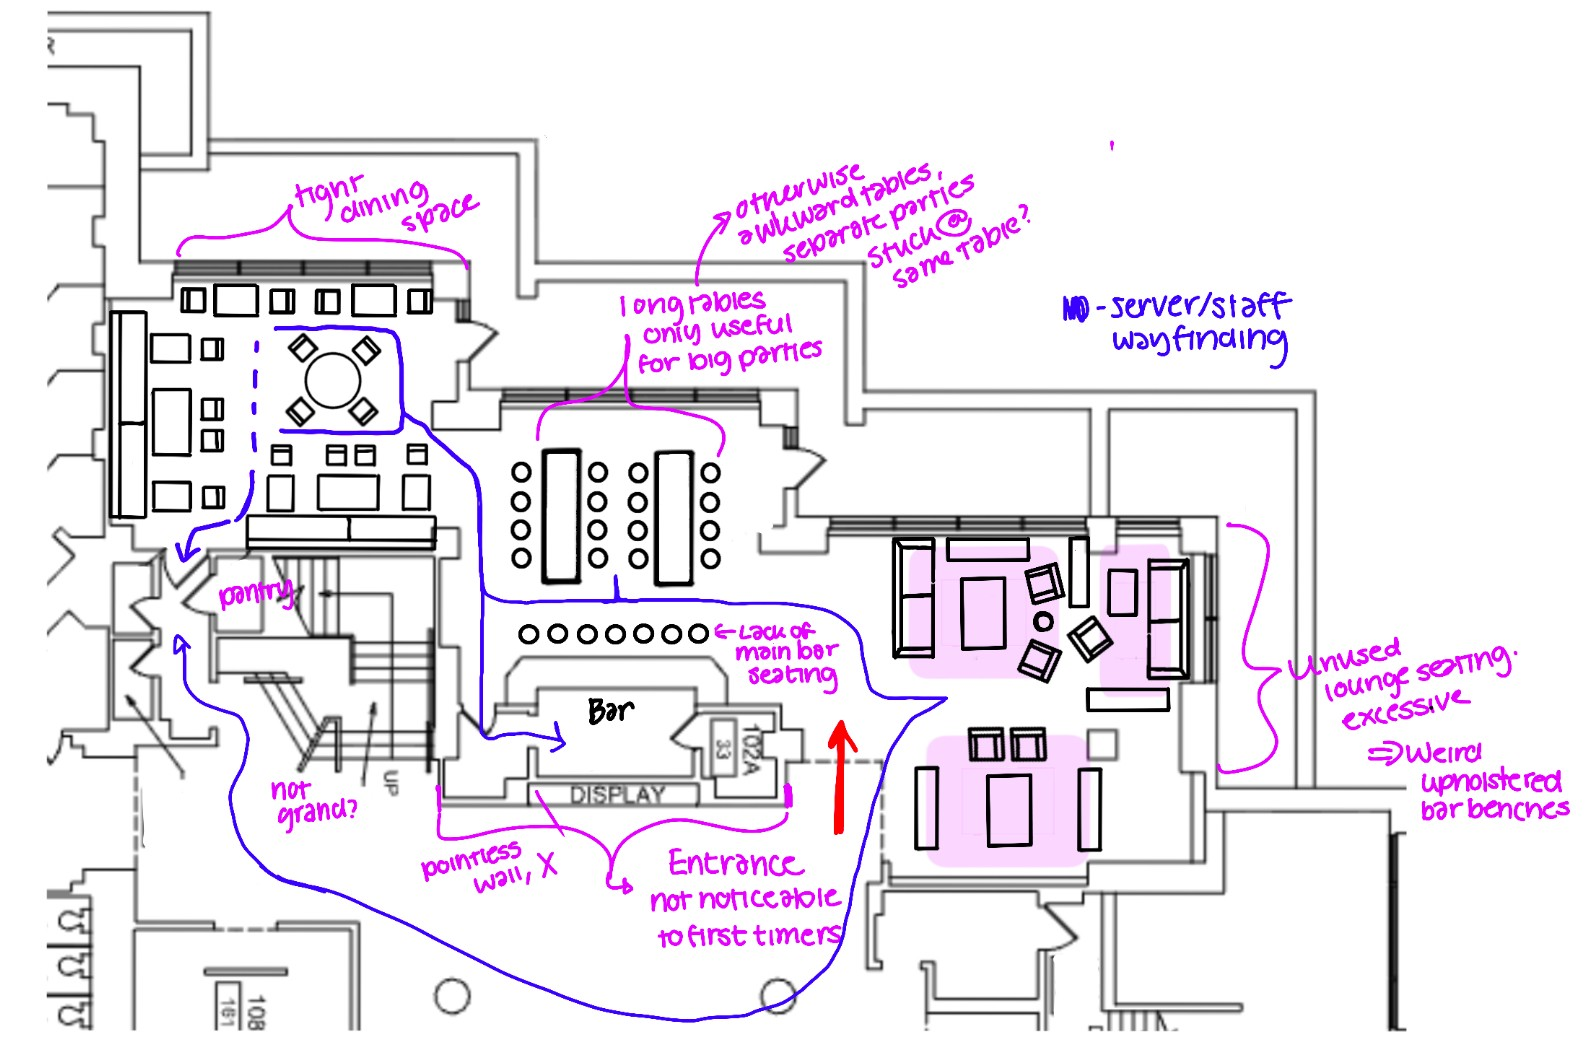
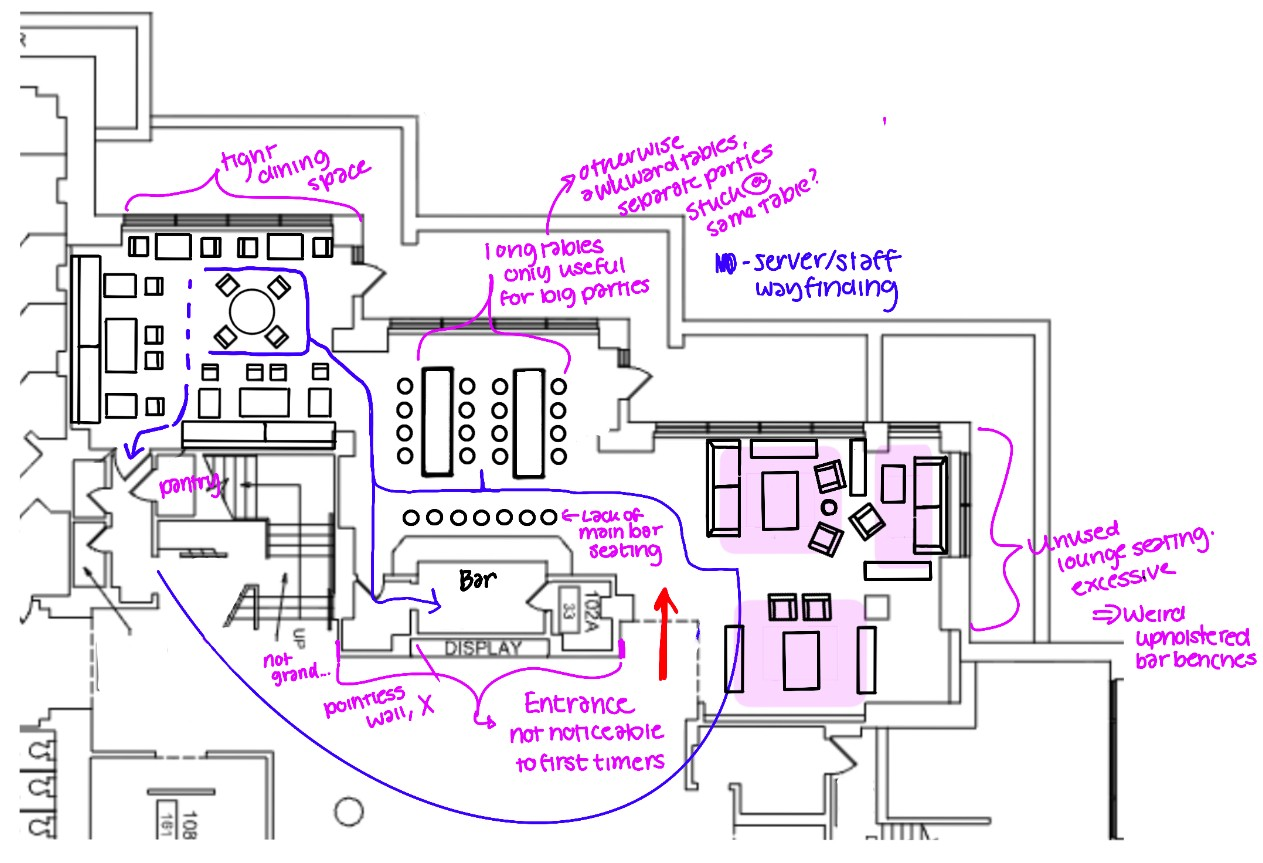
Statler: updated before floorplan
Claude-Session: https://claude.ai/code/session_01UHrP7f3T6PvekE7nxDfNFQ

Changed region(s): [[0.0, 0.0, 1.0, 0.9942]]

diff --git a/index.html b/index.html
@@ -8,13 +8,13 @@
 <link rel="preconnect" href="https://fonts.googleapis.com">
 <link rel="preconnect" href="https://fonts.gstatic.com" crossorigin>
 <link rel="stylesheet" href="https://fonts.googleapis.com/css2?family=Archivo:wdth,wght@62..125,700..900&family=Bricolage+Grotesque:opsz,wdth,wght@12..96,75..100,400..800&family=Instrument+Sans:wght@400;500;600&family=Instrument+Serif:ital@0;1&family=Syne:wght@700..800&family=Archivo+Narrow:wght@500;600;700&family=Caveat:wght@500;600&family=Inter:wght@400;500;600&family=Inter+Tight:wght@400;500;600;700&family=Roboto+Mono:wght@400;500&family=DM+Sans:opsz,wght@9..40,400;9..40,500&display=swap">
-<link rel="stylesheet" href="css/style.css?v=202611230409">
+<link rel="stylesheet" href="css/style.css?v=202611230413">
 </head>
 <body>
 <div id="app"></div>
-<script>window.SITE_VERSION = "202611230409";</script>
-<script src="content/site.js?v=202611230409"></script>
-<script src="js/glyphs.js?v=202611230409"></script>
-<script src="js/app.js?v=202611230409"></script>
+<script>window.SITE_VERSION = "202611230413";</script>
+<script src="content/site.js?v=202611230413"></script>
+<script src="js/glyphs.js?v=202611230413"></script>
+<script src="js/app.js?v=202611230413"></script>
 </body>
 </html>

diff --git a/content/projects/statler-hotel-redesign.js b/content/projects/statler-hotel-redesign.js
@@ -32,7 +32,7 @@ addProject({
 
     // "before" plan: bob's marked-up original layout (added 2026-11-23)
     { group: "The Spaces", type: "image", heading: "Before: The Original Floorplan",
-      src: "assets/digital/statler/floorplan-before.jpg?v=202611230405", ratio: "1585/1064", caption: "The original layout, marked up with the problems I found" },
+      src: "assets/digital/statler/floorplan-before.jpg?v=202611230413", ratio: "1263/863", caption: "The original layout, marked up with the problems I found" },
     { group: "The Spaces", type: "image", heading: "After: The New Floorplan",
       intro: "Guests come in from the elevator and retail entrance, pass the café, and are led by the grand stair toward the bar.",
       src: "assets/digital/statler/floorplan-hd.jpg", ratio: "2952/1596", caption: "Circulation from the entrance, past the café and stairs, to the bar" },
